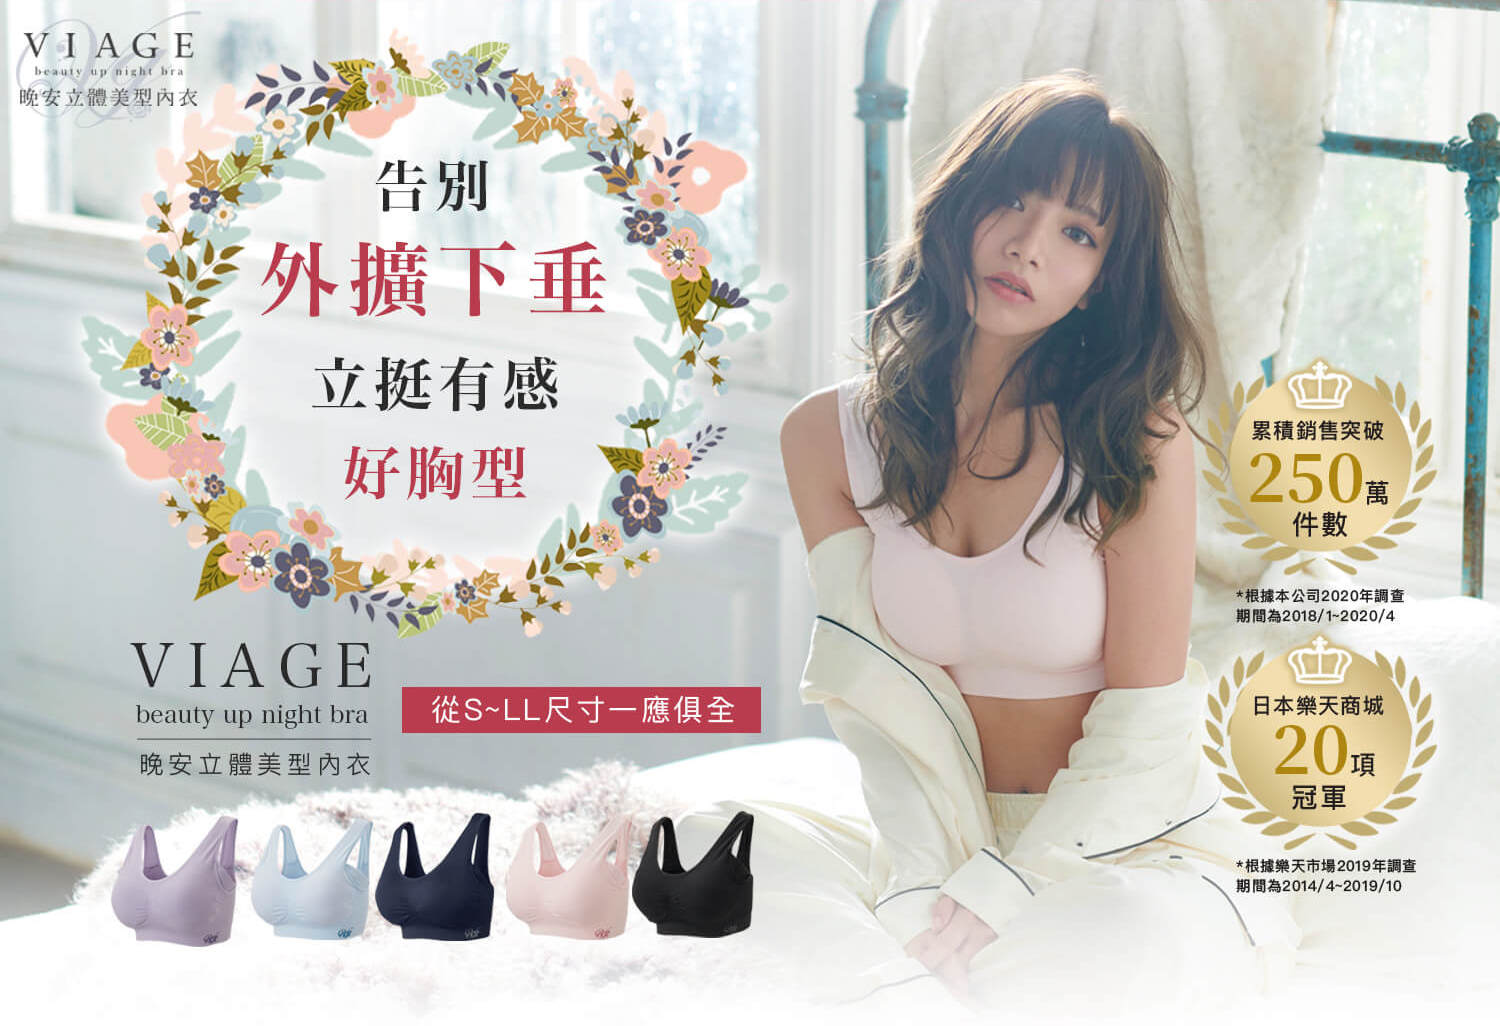
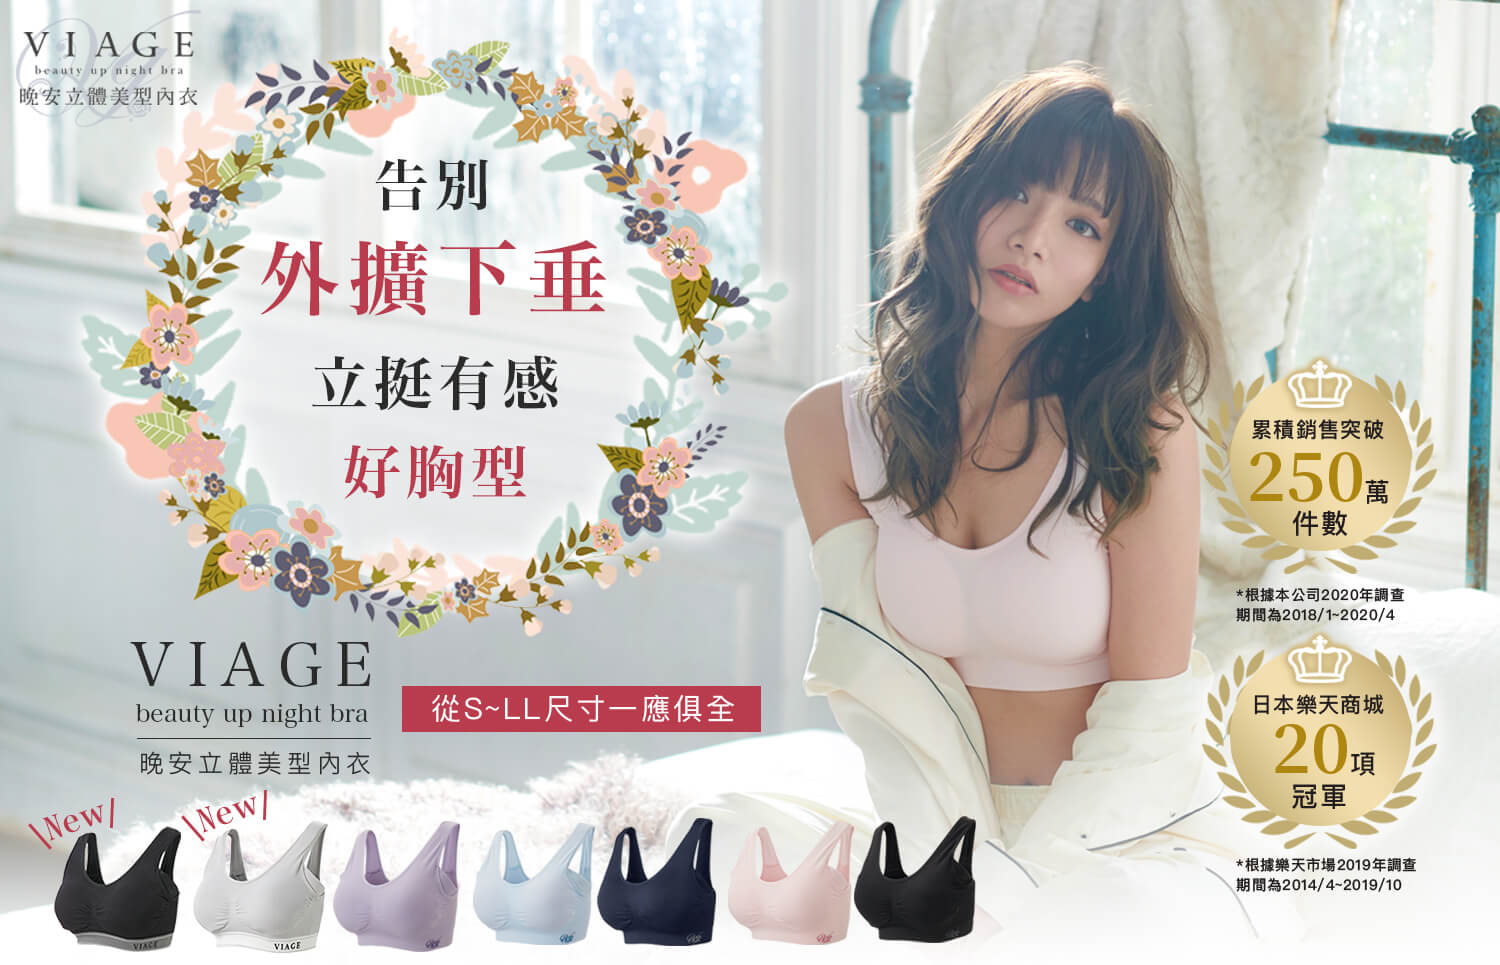
20200619_add new color photo

diff --git a/index.html b/index.html
@@ -109,12 +109,14 @@
                 <div class="PC">
                     <img src="./img/01_banner.jpg" alt="">
                     <img src="./img/01.jpg" alt="">
+                    <img src="./img/02_newcolor.jpg" style="width:70%;" alt="">
                     <img src="./img/03.jpg" style="width:70%;" alt="">
                     <img src="./img/ig_title.jpg" alt="" style="width:70%;">
                 </div>
                 <div class="SP">
                     <img src="./img/SP/SP_01_banner.jpg" alt="">
                     <img src="./img/SP/SP_01.jpg" alt="">
+                    <img src="./img/SP/SP_02_newcolor.jpg" alt="">
                     <img src="./img/SP/SP_03.jpg" alt="">
                     <img src="./img/SP/SP_ig_title.jpg" alt="">
                 </div>
